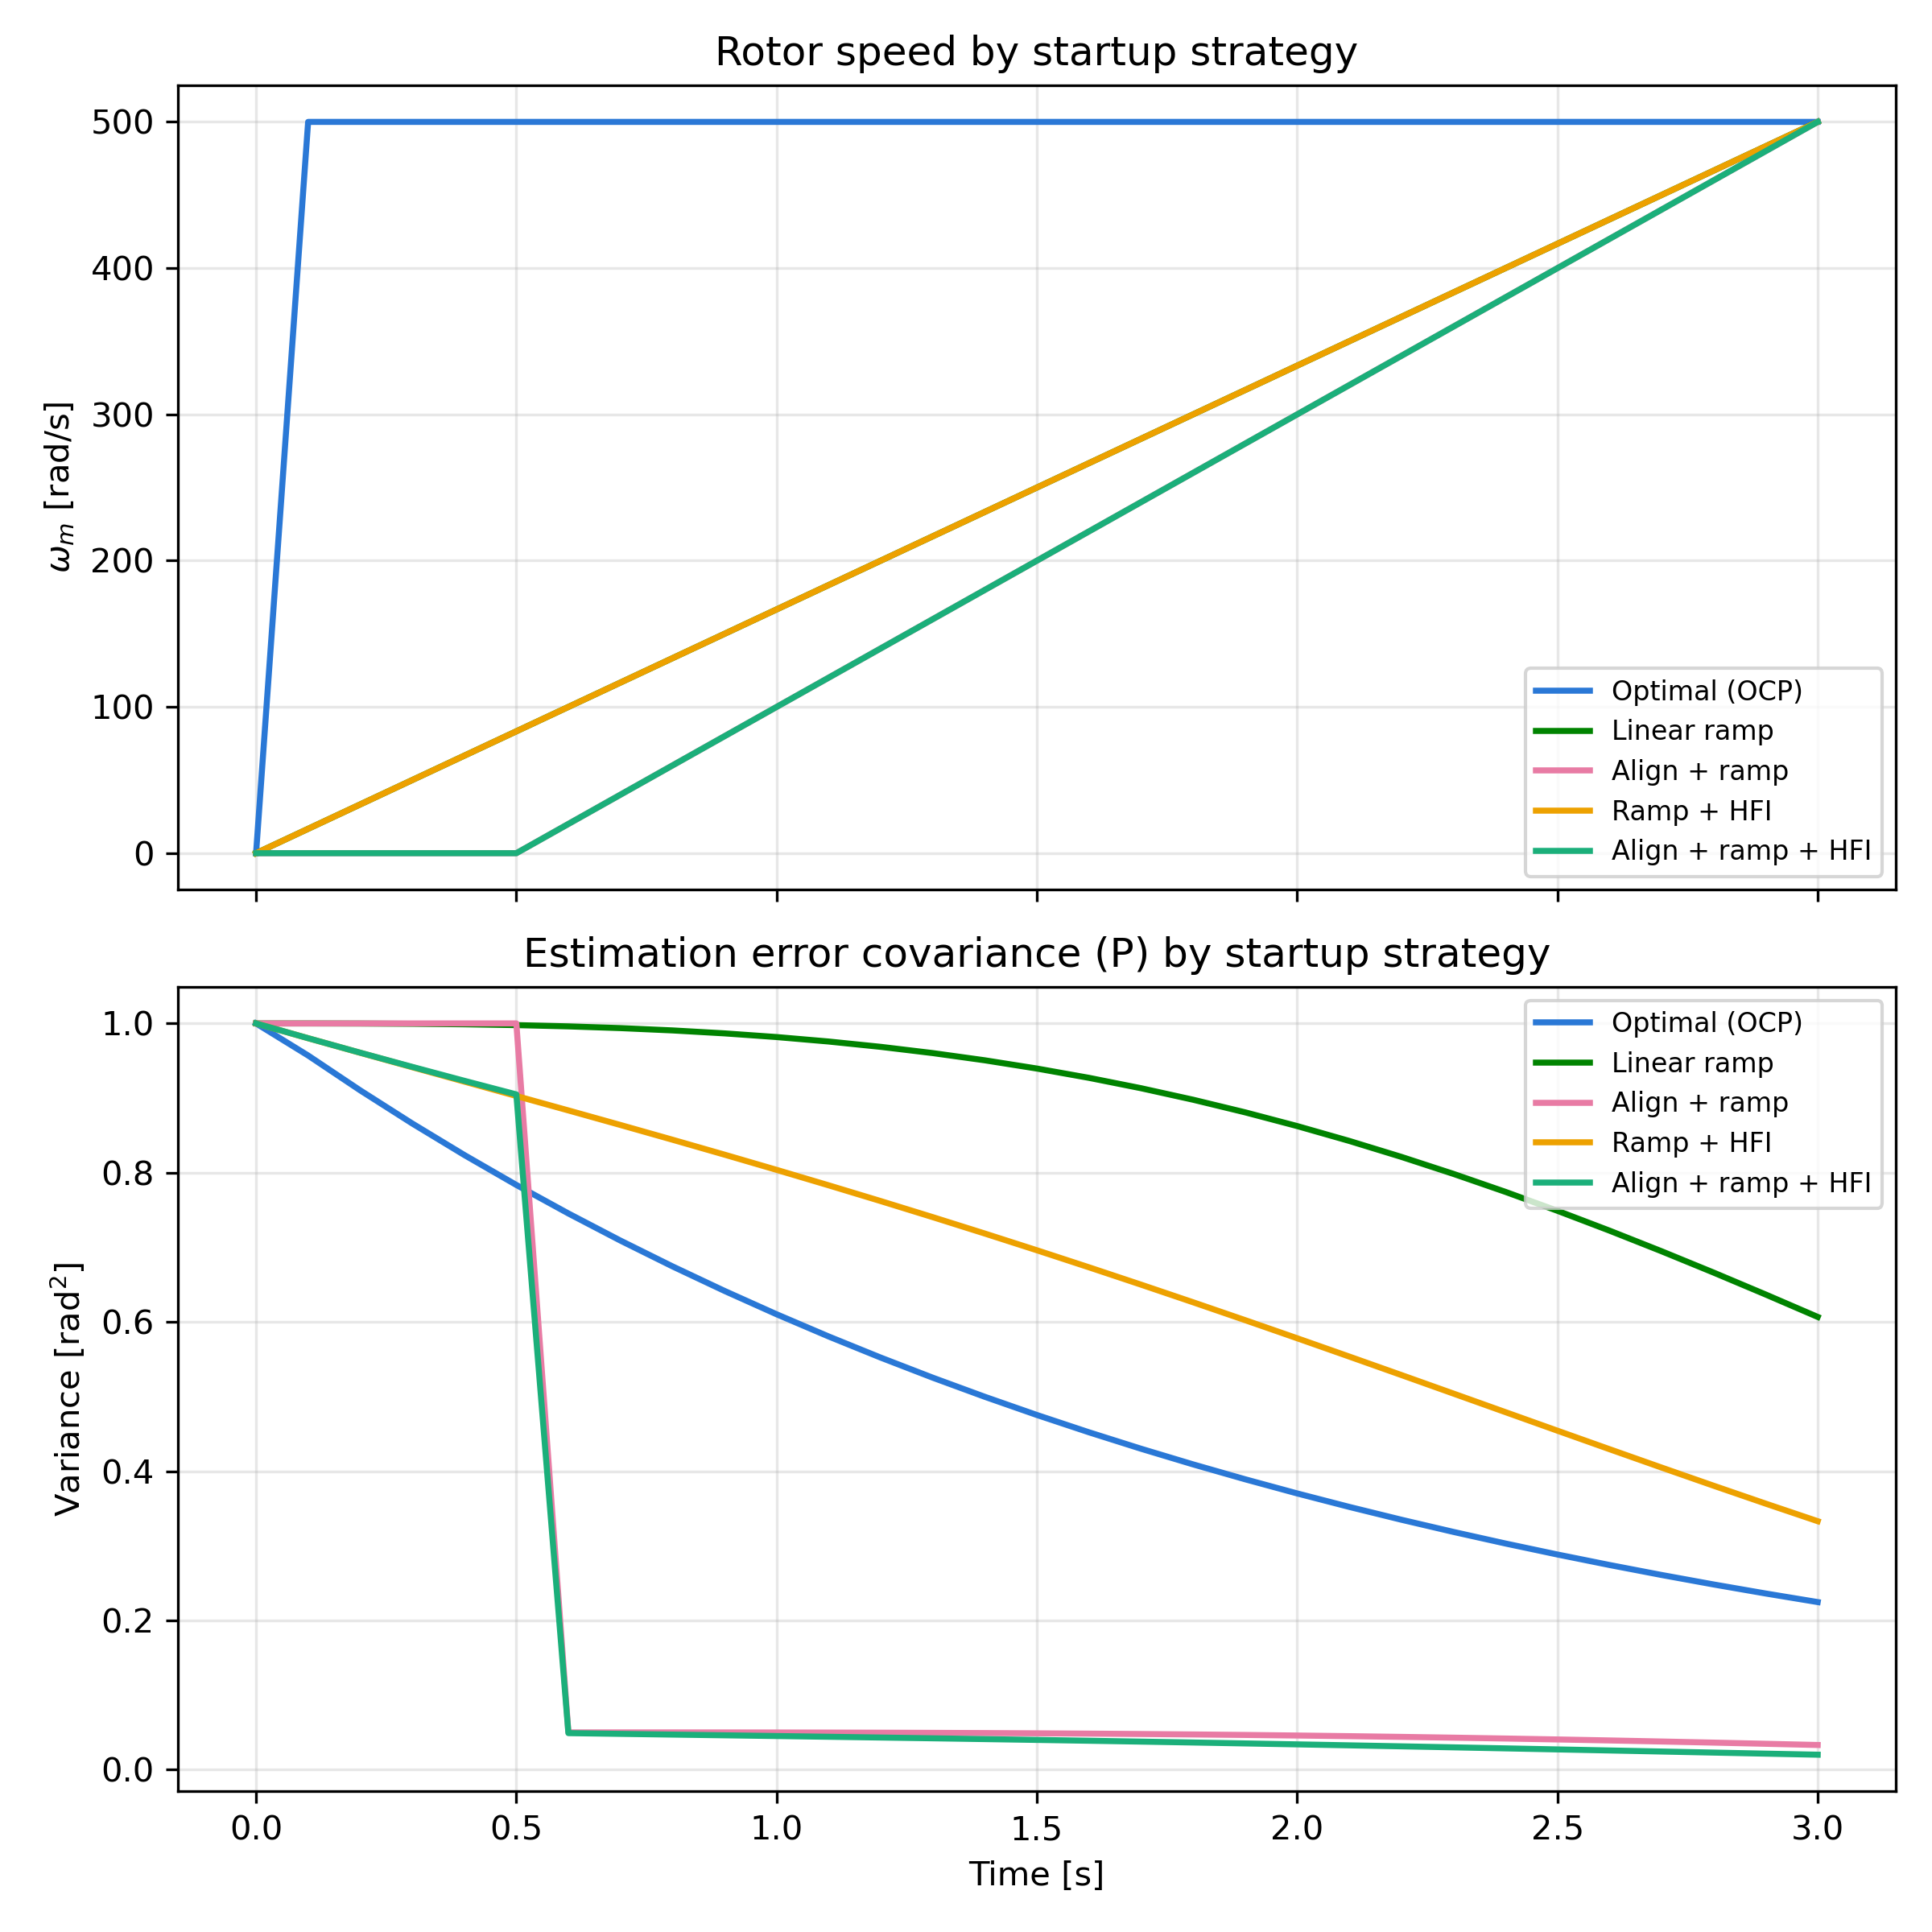
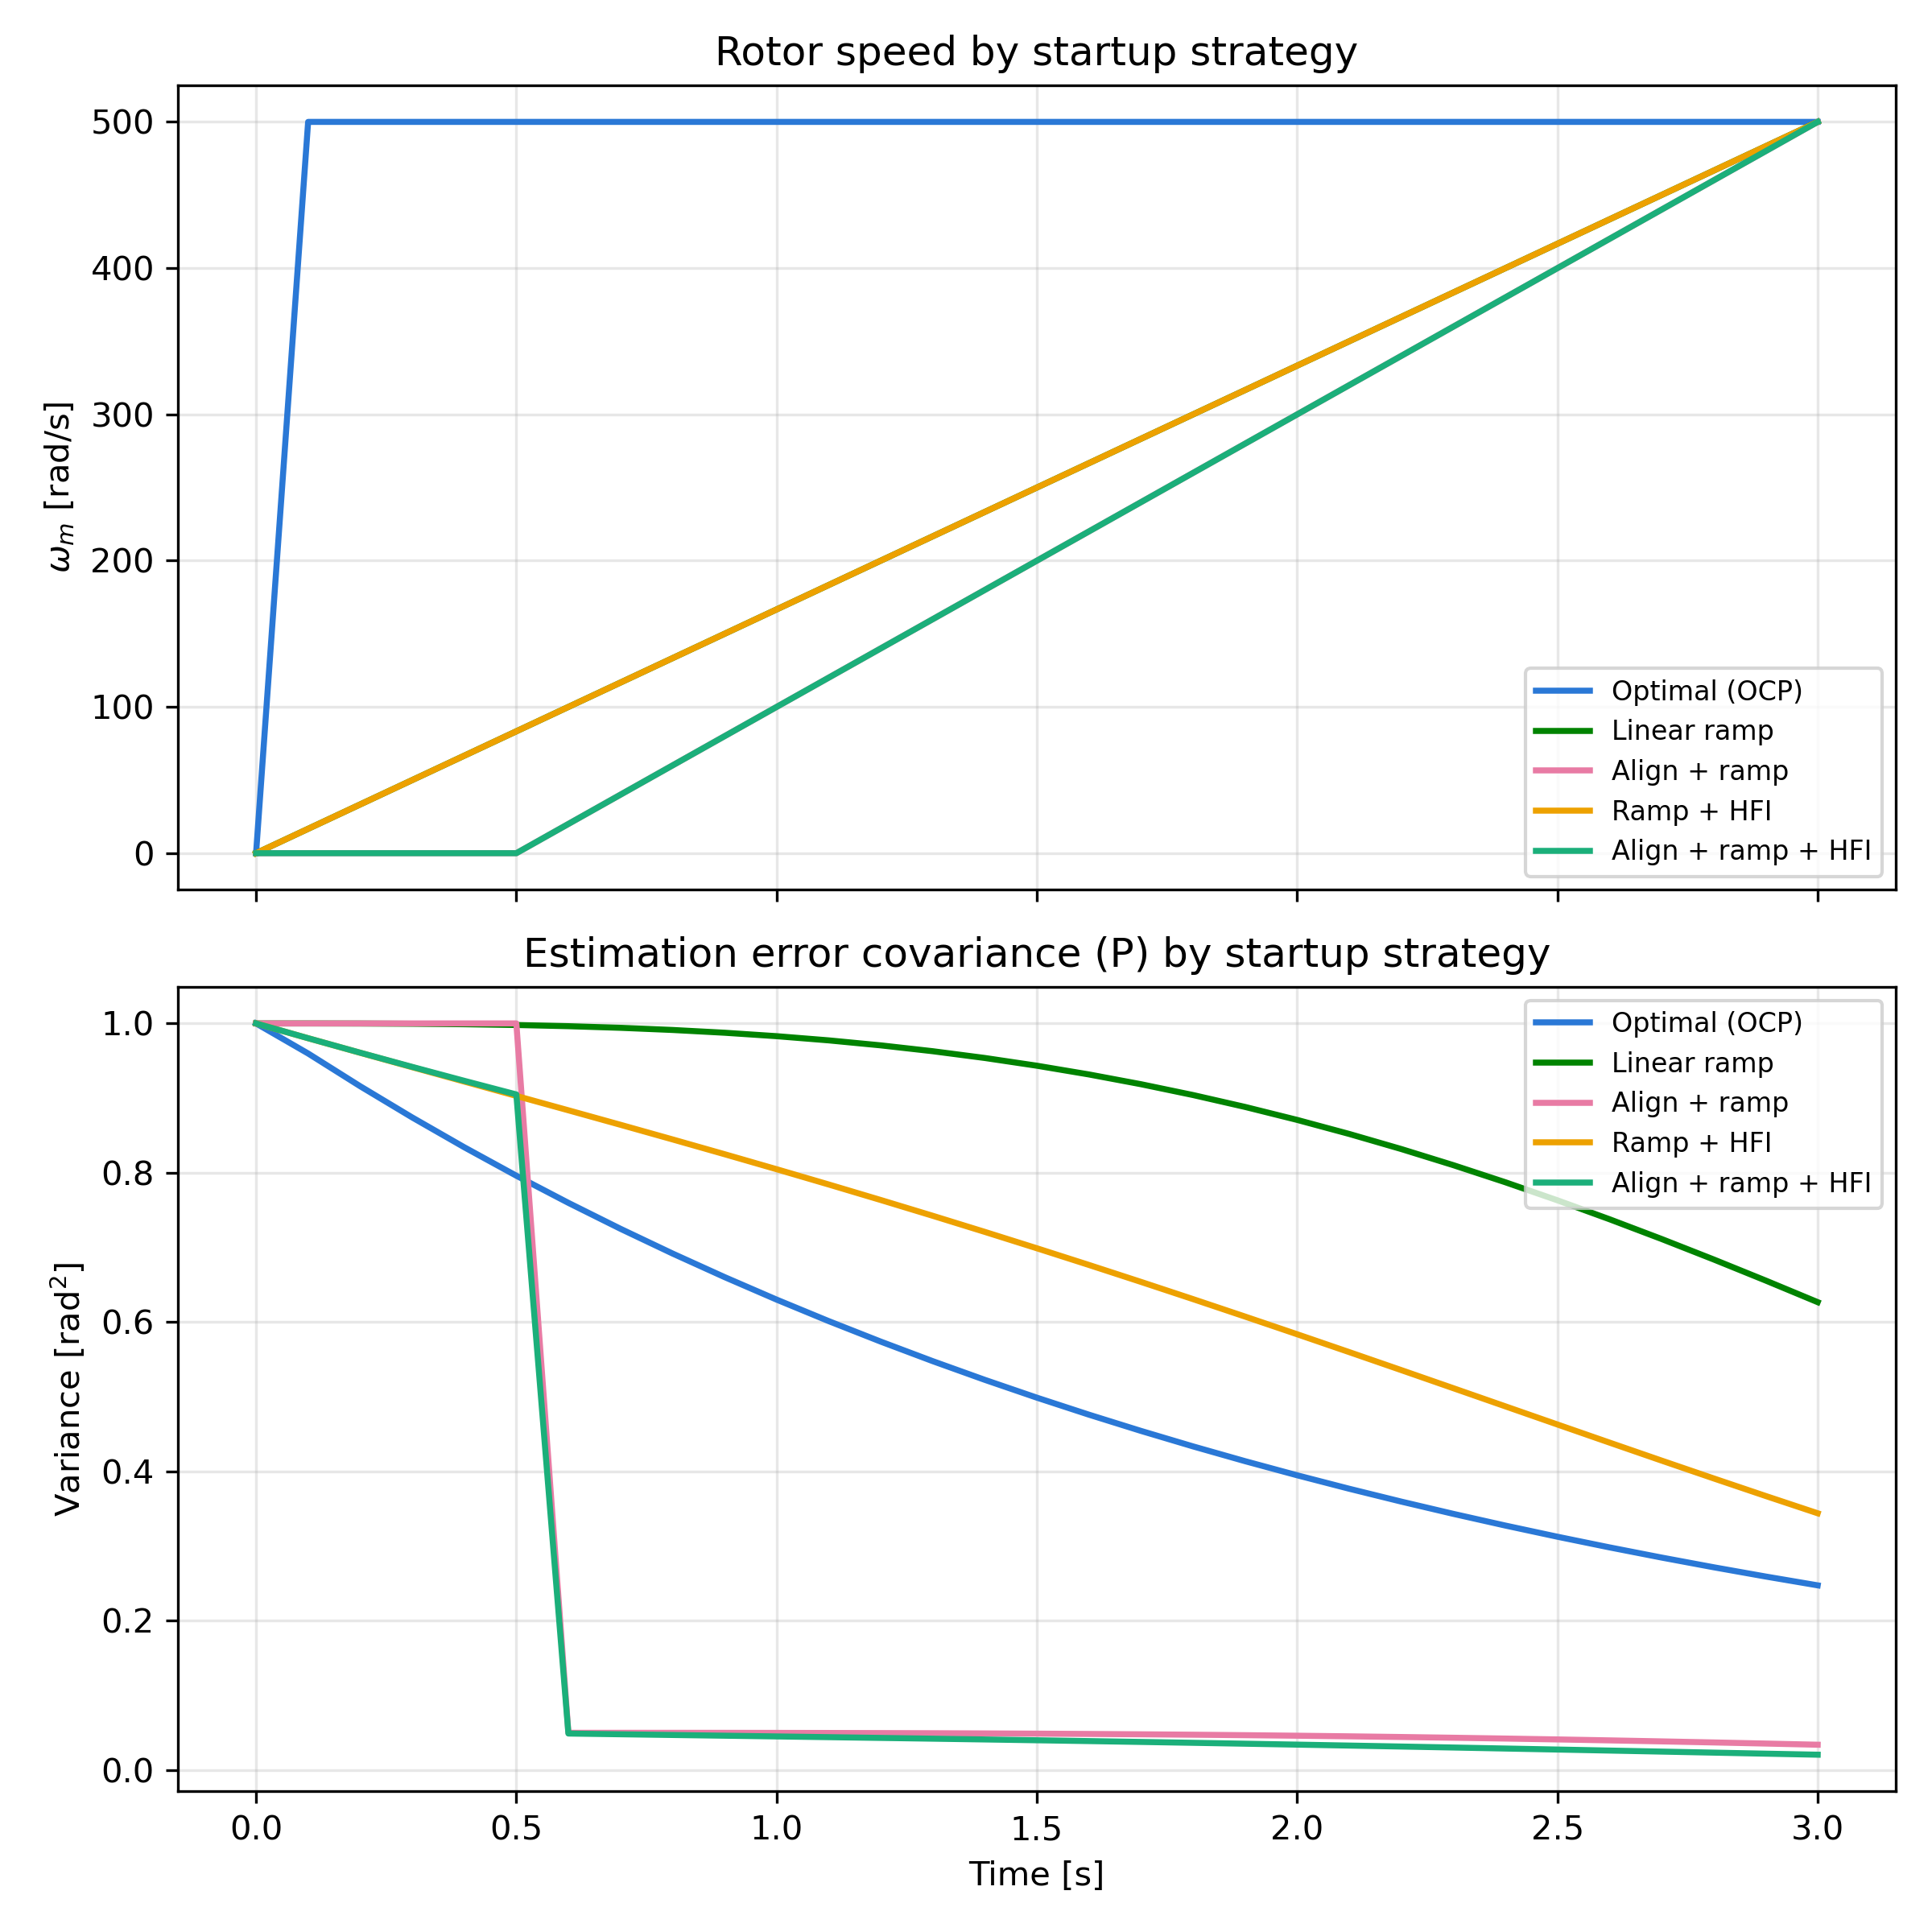
Working - base

diff --git a/pmsm_casadi.py b/pmsm_casadi.py
@@ -2,6 +2,18 @@ import numpy as np
 import casadi as ca
 
 
+# Named motor presets, mapped onto PMSMParams' fields:
+#   R=Rs, Ld, Lq, lambda_m=FluxPM, p, J, B, N=N_max (rated/max speed), Imax=I_rated.
+# Vmax is bus voltage, not a motor parameter -- not given in a motor's datasheet
+# fields above, so both presets keep the same 24.0 V default unless overridden.
+MOTOR_PRESETS = {
+    'BLY172S': dict(R=0.40, Ld=0.60e-3, Lq=0.60e-3, lambda_m=6.838e-3,
+                     p=4, J=4.802e-6, B=1.0e-6, N=4000, Imax=3.5, Vmax=24.0),
+    'Teknic2310P': dict(R=0.36, Ld=2.0e-4, Lq=2.0e-4, lambda_m=6.4e-3,
+                         p=4, J=7.0616e-6, B=2.6369e-6, N=6000, Imax=7.1, Vmax=24.0),
+}
+
+
 class PMSMParams:
     """Container for PMSM physical parameters (plain numbers, not symbolic)."""
 
@@ -17,6 +29,14 @@ class PMSMParams:
         self.N = N
         self.Imax = Imax
         self.Vmax = Vmax
+
+    @classmethod
+    def for_motor(cls, name):
+        """Builds PMSMParams from a named preset in MOTOR_PRESETS, e.g.
+        PMSMParams.for_motor('Teknic2310P')."""
+        if name not in MOTOR_PRESETS:
+            raise ValueError(f"Unknown motor '{name}'. Available: {list(MOTOR_PRESETS)}")
+        return cls(**MOTOR_PRESETS[name])
 
 
 def pmsm_dynamics(x, u, params):
@@ -54,23 +74,24 @@ def pmsm_dynamics(x, u, params):
     return ca.vertcat(did, diq, domega_m, dtheta_m)
 
 
-def build_dynamics_function(params, k_info=None, Q_process=None):
+def build_dynamics_function(params, sigma=None, Q_process=None):
     """Builds a CasADi function for the PMSM dynamics dx/dt = f(x, u).
 
     By default this builds the plain 4-state plant [id, iq, omega_m, theta_m].
-    Passing both k_info and Q_process augments it with a 5th state, P (the
+    Passing both sigma and Q_process augments it with a 5th state, P (the
     sensorless estimator's rotor-angle variance), giving the 5-state
     [id, iq, omega_m, theta_m, P] used by the OCP: P_dot = -info_rate*P +
-    Q_process, so faster spin-up (higher info_rate, see info_rate()) drives
-    the estimate's uncertainty down faster, while Q_process is a constant
-    floor that keeps it from decaying to zero.
+    Q_process, so a higher BEMF SNR (see info_rate()) drives the estimate's
+    uncertainty down faster, while Q_process is a constant floor that keeps
+    it from decaying to zero.
 
     Parameters
     ----------
     params : PMSMParams
         Physical parameters of the PMSM
-    k_info : float, optional
-        BEMF information-rate gain (see info_rate()). Enables the P state.
+    sigma : float, optional
+        Gaussian measurement-noise standard deviation (see info_rate()).
+        Enables the P state.
     Q_process : float, optional
         Process-noise floor for the P state. Enables the P state.
 
@@ -79,7 +100,7 @@ def build_dynamics_function(params, k_info=None, Q_process=None):
     f : casadi.Function
         CasADi function representing the dynamics dx/dt = f(x, u)
     """
-    with_uncertainty = k_info is not None and Q_process is not None
+    with_uncertainty = sigma is not None and Q_process is not None
     nx = 5 if with_uncertainty else 4
 
     x = ca.SX.sym('x', nx)
@@ -89,7 +110,7 @@ def build_dynamics_function(params, k_info=None, Q_process=None):
 
     if with_uncertainty:
         omega_m, P = x[2], x[4]
-        P_dot = -info_rate(omega_m, k_info) * P + Q_process
+        P_dot = -info_rate(omega_m, params, sigma) * P + Q_process
         xdot = ca.vertcat(dx_plant, P_dot)
     else:
         xdot = dx_plant
@@ -112,19 +133,32 @@ def estimated_dq_currents(i_alpha, i_beta, theta_hat):
     return id_hat, iq_hat
 
 
-def info_rate(omega_m, k_info, k_hfi=0.0):
+def info_rate(omega_m, params, sigma, k_hfi=0.0):
     """Rate at which the estimator gains information about rotor angle.
 
-    BEMF-based observation only works while the rotor is moving, so that
-    contribution grows with speed: k_info * omega_m**2. k_hfi is an optional
-    constant, speed-independent contribution (e.g. a saliency-based
-    high-frequency-injection estimator, which works even at standstill).
+    Noise model: the BEMF-based observer measures a signal of amplitude
+      A = params.lambda_m * params.p * omega_m   -- BEMF magnitude [V],
+          zero at standstill (no BEMF-based info without motion),
+    corrupted by simple additive white Gaussian noise, n ~ N(0, sigma**2),
+    with a single, constant standard deviation sigma [V] -- the standard
+    textbook sensor/ADC noise assumption, regardless of speed.
+
+    The Fisher information rate for estimating a phase from a sinusoidal
+    signal of amplitude A in Gaussian noise of variance sigma**2 is A**2 /
+    sigma**2, giving:
+
+      info_rate = (A / sigma)**2 = (params.lambda_m * params.p * omega_m / sigma)**2
+
+    k_hfi is an optional constant, speed-independent addition (e.g. a
+    saliency-based high-frequency-injection estimator, which works even at
+    standstill, unlike the BEMF term above).
 
     Works with both CasADi symbols and plain numbers/numpy arrays, so this
     is the single source of truth shared between the OCP dynamics below and
     any offline comparison of alternative speed trajectories.
     """
-    return k_info * omega_m ** 2 + k_hfi
+    signal = params.lambda_m * params.p * omega_m
+    return (signal / sigma) ** 2 + k_hfi
 
 
 def rk4_step(f_dyn, x, u, dt):
@@ -200,8 +234,12 @@ def wrap_to_2pi(theta):
 
 
 def solve_pmsm_ocp(params, T_HORIZON=3.0, DT=1e-1, RK4_SUBSTEPS=100,
-                    P0=1.0 ** 2, k_info=2e-6, Q_process=1e-4):
+                    P0=1.0 ** 2, sigma=20.0, Q_process=1e-4):
     """Sets up and solves the PMSM optimal control problem.
+
+    sigma is the Gaussian measurement-noise standard deviation (see
+    info_rate() in this module) that drives how fast the estimation
+    variance P can be reduced by spinning up.
 
     Returns
     -------
@@ -212,7 +250,7 @@ def solve_pmsm_ocp(params, T_HORIZON=3.0, DT=1e-1, RK4_SUBSTEPS=100,
     N = int(round(T_HORIZON / DT))
     TARGET_SPEED = params.N * 0.125
 
-    f_dyn_unc = build_dynamics_function(params, k_info=k_info, Q_process=Q_process)
+    f_dyn_unc = build_dynamics_function(params, sigma=sigma, Q_process=Q_process)
     rk4_integrator = build_rk4_integrator_nd(f_dyn_unc, DT, RK4_SUBSTEPS, nx=5, nu=2)
 
     opti = ca.Opti()
@@ -290,7 +328,8 @@ def save_raw_results(filepath, results):
 
 
 if __name__ == "__main__":
-    params = PMSMParams()
+    MOTOR = 'BLY172S'  # or 'Teknic2310P' -- see MOTOR_PRESETS
+    params = PMSMParams.for_motor(MOTOR)
     results = solve_pmsm_ocp(params, T_HORIZON=3.0, DT=1e-1, RK4_SUBSTEPS=500)
     save_raw_results('pmsm_raw_results.npz', results)
-    print("Raw OCP results saved to pmsm_raw_results.npz")
+    print(f"Raw OCP results saved to pmsm_raw_results.npz (motor={MOTOR})")

diff --git a/pmsm_startup_strategies.py b/pmsm_startup_strategies.py
@@ -1,10 +1,10 @@
 """Compares startup strategies against the OCP-optimal spin-up trajectory,
 using the same uncertainty (P) model from pmsm_casadi.py.
 
-P_dot only depends on info_rate(omega_m, k_info, k_hfi) -- not on how omega_m
-was achieved -- so alternative strategies are compared by prescribing a speed
-trajectory omega_m(t) directly and integrating the same P dynamics, rather
-than re-solving an optimization problem for each one.
+P_dot only depends on info_rate(omega_m, params, sigma, k_hfi) -- not on how
+omega_m was achieved -- so alternative strategies are compared by
+prescribing a speed trajectory omega_m(t) directly and integrating the same
+P dynamics, rather than re-solving an optimization problem for each one.
 
 Strategies compared
 --------------------
@@ -49,7 +49,7 @@ T_HORIZON = 3.0
 DT = 1e-1
 RK4_SUBSTEPS = 500
 P0 = 1.0 ** 2
-K_INFO = 2e-6
+SIGMA = 20.0      # Gaussian measurement-noise standard deviation [V]
 Q_PROCESS = 1e-4
 
 # Rotor-alignment strategy
@@ -85,10 +85,10 @@ def linear_ramp_omega(t, target_speed, t_start, t_end):
 
 
 def integrate_uncertainty(omega_ref, T_HORIZON, DT, RK4_SUBSTEPS, P0,
-                           k_info, q_process, k_hfi=0.0,
-                           reset_time=None, reset_value=None):
-    """RK4-integrates P_dot = -info_rate(omega_ref(t), k_info, k_hfi)*P +
-    q_process for a prescribed speed profile omega_ref(t), with an optional
+                           params, sigma, q_process,
+                           k_hfi=0.0, reset_time=None, reset_value=None):
+    """RK4-integrates P_dot = -info_rate(omega_ref(t), params, sigma, k_hfi)*P
+    + q_process for a prescribed speed profile omega_ref(t), with an optional
     one-time discrete reset of P at reset_time.
 
     Returns the coarse (N+1)-point grid (t, P) matching the OCP's DT.
@@ -101,7 +101,7 @@ def integrate_uncertainty(omega_ref, T_HORIZON, DT, RK4_SUBSTEPS, P0,
     P_grid[0] = P0
 
     def p_dot(t, P):
-        return -info_rate(omega_ref(t), k_info, k_hfi) * P + q_process
+        return -info_rate(omega_ref(t), params, sigma, k_hfi) * P + q_process
 
     P = P0
     t = 0.0
@@ -134,7 +134,8 @@ def check_feasibility(name, t, omega_m, params):
 
 
 def main():
-    params = PMSMParams()
+    MOTOR = 'BLY172S'  # or 'Teknic2310P' -- see MOTOR_PRESETS in pmsm_casadi.py
+    params = PMSMParams.for_motor(MOTOR)
     TARGET_SPEED = params.N * 0.125
 
     strategies = {}
@@ -142,7 +143,7 @@ def main():
     # 1. Optimal (OCP) -- reuse the actual solver, BEMF info only.
     ocp_results = solve_pmsm_ocp(params, T_HORIZON=T_HORIZON, DT=DT,
                                   RK4_SUBSTEPS=RK4_SUBSTEPS, P0=P0,
-                                  k_info=K_INFO, Q_process=Q_PROCESS)
+                                  sigma=SIGMA, Q_process=Q_PROCESS)
     strategies['optimal'] = {'t': ocp_results['t'], 'omega_m': ocp_results['omega_m'],
                               'P': ocp_results['P']}
 
@@ -151,7 +152,8 @@ def main():
         return linear_ramp_omega(t, TARGET_SPEED, 0.0, T_HORIZON)
 
     t_grid, P_grid = integrate_uncertainty(
-        omega_linear, T_HORIZON, DT, RK4_SUBSTEPS, P0, K_INFO, Q_PROCESS)
+        omega_linear, T_HORIZON, DT, RK4_SUBSTEPS, P0,
+        params, SIGMA, Q_PROCESS)
     strategies['linear_ramp'] = {'t': t_grid, 'omega_m': omega_linear(t_grid), 'P': P_grid}
 
     # 3. Align (hold + discrete P reset) then ramp for the remaining time.
@@ -159,20 +161,22 @@ def main():
         return linear_ramp_omega(t, TARGET_SPEED, T_ALIGN, T_HORIZON)
 
     t_grid, P_grid = integrate_uncertainty(
-        omega_align, T_HORIZON, DT, RK4_SUBSTEPS, P0, K_INFO, Q_PROCESS,
+        omega_align, T_HORIZON, DT, RK4_SUBSTEPS, P0,
+        params, SIGMA, Q_PROCESS,
         reset_time=T_ALIGN, reset_value=P_ALIGN)
     strategies['align_then_ramp'] = {'t': t_grid, 'omega_m': omega_align(t_grid), 'P': P_grid}
 
     # 4. Same naive ramp, plus a constant HFI info contribution.
     t_grid, P_grid = integrate_uncertainty(
-        omega_linear, T_HORIZON, DT, RK4_SUBSTEPS, P0, K_INFO, Q_PROCESS,
-        k_hfi=K_HFI)
+        omega_linear, T_HORIZON, DT, RK4_SUBSTEPS, P0,
+        params, SIGMA, Q_PROCESS, k_hfi=K_HFI)
     strategies['ramp_with_hfi'] = {'t': t_grid, 'omega_m': omega_linear(t_grid), 'P': P_grid}
 
     # 5. Alignment reset + HFI combined, on top of the align-then-ramp profile.
     t_grid, P_grid = integrate_uncertainty(
-        omega_align, T_HORIZON, DT, RK4_SUBSTEPS, P0, K_INFO, Q_PROCESS,
-        k_hfi=K_HFI, reset_time=T_ALIGN, reset_value=P_ALIGN)
+        omega_align, T_HORIZON, DT, RK4_SUBSTEPS, P0,
+        params, SIGMA, Q_PROCESS, k_hfi=K_HFI,
+        reset_time=T_ALIGN, reset_value=P_ALIGN)
     strategies['align_ramp_hfi'] = {'t': t_grid, 'omega_m': omega_align(t_grid), 'P': P_grid}
 
     # ---- Feasibility check (rough) ----